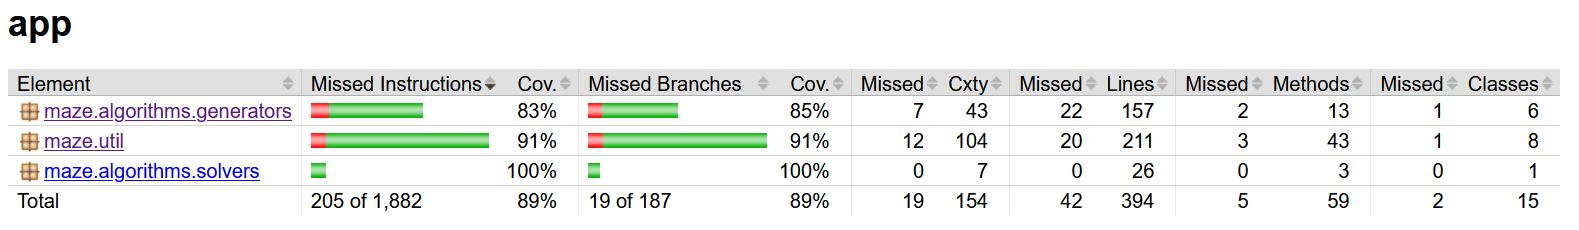
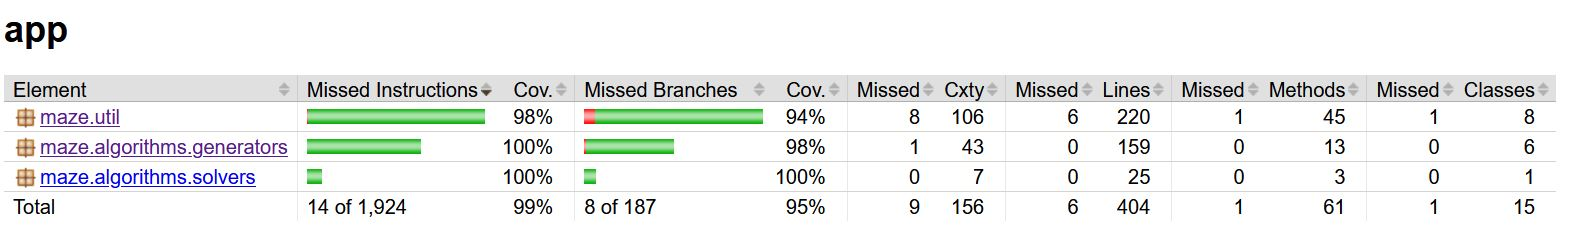
Fixed tests

diff --git a/maze-algorithms/app/src/test/java/maze/util/CellTest.java b/maze-algorithms/app/src/test/java/maze/util/CellTest.java
@@ -126,7 +126,7 @@ public class CellTest {
         Cell leftNeighbour = new Cell(11, 10);
         Cell rightNeighbour = new Cell(9, 10);
 
-        leftNeighbour.setVisited(true);
+        testGrid.markCellAsVisited(leftNeighbour);
 
         testGrid.add(currentCell);
         testGrid.add(topNeighbour);
@@ -146,8 +146,8 @@ public class CellTest {
         Cell rightNeighbour = new Cell(9, 10);
         Cell farRightNeihbour = new Cell(8, 10);
 
-        leftNeighbour.setVisited(true);
-        rightNeighbour.setVisited(true);
+        testGrid.markCellAsVisited(leftNeighbour);
+        testGrid.markCellAsVisited(rightNeighbour);
 
         testGrid.add(currentCell);
         testGrid.add(topNeighbour);
@@ -202,7 +202,7 @@ public class CellTest {
         leftNeighbour.setWalls(new boolean[] { true, true, true, false });
         rightNeighbour.setWalls(new boolean[] { true, true, true, true });
 
-        rightNeighbour.setVisited(true);
+        testGrid.markCellAsVisited(rightNeighbour);
 
         testGrid.add(currentCell);
         testGrid.add(topNeighbour);
@@ -212,6 +212,22 @@ public class CellTest {
         testGrid.add(farRightNeihbour);
 
         assertEquals(1, currentCell.getUnvisitedValidMoveNeighbours(testGrid).size());
+    }
+
+    @Test
+    public void shouldResetCell() {
+        Cell cell = new Cell(10, 10);
+        cell.setBfsShortestPath(true);
+        cell.setCursor(true);
+        cell.setVisited(true);
+        cell.setWalls(new boolean[] { false, false, false, false });
+
+        cell.reset();
+
+        assertFalse(cell.isBfsShortestPath());
+        assertFalse(cell.isCursor());
+        assertFalse(cell.isVisited());
+        assertTrue(cell.getWalls()[0] && cell.getWalls()[1] && cell.getWalls()[2] && cell.getWalls()[3]);
     }
 
 }

diff --git a/maze-algorithms/app/src/test/java/maze/algorithm/generators/KruskalsGeneratorTest.java b/maze-algorithms/app/src/test/java/maze/algorithm/generators/KruskalsGeneratorTest.java
@@ -5,9 +5,8 @@ import static org.junit.Assert.assertTrue;
 import static org.mockito.Mockito.doNothing;
 import static org.mockito.Mockito.spy;
 
-import java.awt.Graphics;
-
 import javax.swing.Timer;
+import java.awt.Graphics;
 
 import org.junit.Before;
 import org.junit.Rule;
@@ -16,13 +15,12 @@ import org.mockito.Mock;
 import org.mockito.junit.MockitoJUnit;
 import org.mockito.junit.MockitoRule;
 
-import maze.algorithms.generators.AldousBroderGenerator;
+import maze.algorithms.generators.KruskalsGenerator;
 import maze.algorithms.solvers.BfsSolver;
 import maze.gui.Maze;
 import maze.gui.MazeGridPanel;
 
-// Tämä luokka saattaa hidastaa testien ajamista huomattavasti, koska algoritmin suoritusaika on hyvin satunnainen
-public class AldousBroderGeneratorTest {
+public class KruskalsGeneratorTest {
 
     @Rule
     public MockitoRule rule = MockitoJUnit.rule();
@@ -32,12 +30,12 @@ public class AldousBroderGeneratorTest {
     private Timer timer;
 
     private MazeGridPanel mazeGridPanel;
-    private AldousBroderGenerator generator;
+    private KruskalsGenerator generator;
 
     @Before
     public void setUp() {
         mazeGridPanel = spy(new MazeGridPanel(32, 32));
-        generator = new AldousBroderGenerator(mazeGridPanel);
+        generator = new KruskalsGenerator(mazeGridPanel);
         doNothing().when(mazeGridPanel).repaint();
         doNothing().when(timer).start();
         mazeGridPanel.getGrid().resetVisitedCells();

diff --git a/maze-algorithms/app/src/test/java/maze/algorithm/generators/PrimsGeneratorTest.java b/maze-algorithms/app/src/test/java/maze/algorithm/generators/PrimsGeneratorTest.java
@@ -1,6 +1,5 @@
 package maze.algorithm.generators;
 
-import static org.junit.Assert.assertFalse;
 import static org.junit.Assert.assertTrue;
 import static org.mockito.Mockito.doNothing;
 import static org.mockito.Mockito.spy;
@@ -35,10 +34,11 @@ public class PrimsGeneratorTest {
 
     @Before
     public void setUp() {
-        mazeGridPanel = spy(new MazeGridPanel(32, 32));
+        mazeGridPanel = spy(new MazeGridPanel(6, 6));
         generator = new PrimsGenerator(mazeGridPanel);
         doNothing().when(mazeGridPanel).repaint();
         doNothing().when(timer).start();
+        mazeGridPanel.getGrid().resetVisitedCells();
         Maze.generated = false;
         Maze.solved = false;
     }
@@ -47,14 +47,6 @@ public class PrimsGeneratorTest {
         while (!Maze.generated) {
             generator.generate();
         }
-    }
-
-    @Test
-    public void shouldGenerateMazeAndHaveVisitedAllCells() {
-        assertFalse(mazeGridPanel.getGrid().isAllVisited());
-        generateMaze();
-        assertTrue(Maze.generated);
-        assertTrue(mazeGridPanel.getGrid().isAllVisited());
     }
 
     @Test

diff --git a/maze-algorithms/app/src/main/java/maze/algorithms/solvers/BfsSolver.java b/maze-algorithms/app/src/main/java/maze/algorithms/solvers/BfsSolver.java
@@ -17,7 +17,7 @@ public class BfsSolver {
         cellQueue = new CellQueue();
         this.startCell = grid.get(0);
         this.endPoint = grid.get(grid.size() - 1);
-        cellQueue.enqueue(startCell);
+        cellQueue.add(startCell);
     }
 
     /**
@@ -25,7 +25,7 @@ public class BfsSolver {
      * alusta loppuun
      */
     public void solve() {
-        Cell currentCell = cellQueue.pop();
+        Cell currentCell = cellQueue.remove();
         grid.markCellAsVisited(currentCell);
 
         if (currentCell == endPoint) {
@@ -35,9 +35,8 @@ public class BfsSolver {
         CellList neighbours = currentCell.getUnvisitedValidMoveNeighbours(grid);
         for (int i = 0; i < neighbours.size(); i++) {
             Cell neighbour = neighbours.get(i);
-            grid.markCellAsVisited(neighbour);
             neighbour.setParent(currentCell);
-            cellQueue.enqueue(neighbour);
+            cellQueue.add(neighbour);
         }
 
         if (cellQueue.isEmpty()) {

diff --git a/maze-algorithms/app/src/main/java/maze/util/Cell.java b/maze-algorithms/app/src/main/java/maze/util/Cell.java
@@ -4,10 +4,10 @@ public class Cell {
     private int x, y, id;
 
     private boolean visited = false;
-    private int TOP = 0;
-    private int RIGHT = 1;
-    private int BOTTOM = 2;
-    private int LEFT = 3;
+    private final int TOP = 0;
+    private final int RIGHT = 1;
+    private final int BOTTOM = 2;
+    private final int LEFT = 3;
     private boolean[] walls = { true, true, true, true };
     private boolean cursor = false;
     private boolean deadEnd = false;
@@ -199,7 +199,7 @@ public class Cell {
         }
     }
 
-    public void resetCell() {
+    public void reset() {
         walls = new boolean[] { true, true, true, true };
         cursor = false;
         visited = false;
@@ -331,7 +331,7 @@ public class Cell {
      * @param recursiveVisit
      */
     @ExcludeFromJacocoGeneratedReport
-    public void setRecursiveVisit(boolean deadEnd) {
+    public void setDeadEnd(boolean deadEnd) {
         this.deadEnd = deadEnd;
     }
 

diff --git a/maze-algorithms/app/src/test/java/maze/util/CellListTest.java b/maze-algorithms/app/src/test/java/maze/util/CellListTest.java
@@ -89,7 +89,7 @@ public class CellListTest {
     @Test
     public void shouldNotHaveVisitedAllCells() {
         for (int i = 0; i < 25; i++) {
-            cellList.get(i).setVisited(true);
+            cellList.markCellAsVisited(cellList.get(i));
         }
         assertFalse(cellList.isAllVisited());
     }
@@ -97,7 +97,7 @@ public class CellListTest {
     @Test
     public void shouldHaveVisitedAllCells() {
         for (int i = 0; i < cellList.size(); i++) {
-            cellList.get(i).setVisited(true);
+            cellList.markCellAsVisited(cellList.get(i));
         }
 
         assertTrue(cellList.isAllVisited());
@@ -106,7 +106,7 @@ public class CellListTest {
     @Test
     public void shouldSetAllCellsUnvisited() {
         for (int i = 0; i < cellList.size(); i++) {
-            cellList.get(i).setVisited(true);
+            cellList.markCellAsVisited(cellList.get(i));
         }
 
         assertTrue(cellList.isAllVisited());

diff --git a/maze-algorithms/app/src/test/java/maze/algorithm/solvers/BfsSolverTest.java b/maze-algorithms/app/src/test/java/maze/algorithm/solvers/BfsSolverTest.java
@@ -1,6 +1,7 @@
 package maze.algorithm.solvers;
 
 import static org.junit.Assert.assertFalse;
+import static org.junit.Assert.assertTrue;
 import static org.mockito.Mockito.doNothing;
 import static org.mockito.Mockito.spy;
 
@@ -60,5 +61,22 @@ public class BfsSolverTest {
 
         assertFalse(mazeGridPanel.getGrid().isAllVisited());
 
+    }
+
+    @Test
+    public void shouldHaveVisitedAllCellsOnValidMaze() {
+        BinaryTreeGenerator binaryTreeGenerator = new BinaryTreeGenerator(mazeGridPanel);
+        while (!Maze.generated) {
+            binaryTreeGenerator.generate();
+        }
+        mazeGridPanel.getGrid().setAllUnvisited();
+
+        BfsSolver solver = new BfsSolver(mazeGridPanel);
+
+        while (!Maze.solved) {
+            solver.solve();
+        }
+
+        assertTrue(mazeGridPanel.getGrid().isAllVisited());
     }
 }

diff --git a/maze-algorithms/app/src/main/java/maze/util/CellList.java b/maze-algorithms/app/src/main/java/maze/util/CellList.java
@@ -73,7 +73,7 @@ public class CellList {
     public void setAllUnvisited() {
         for (int i = 0; i < size; i++) {
             cells[i].setVisited(false);
-            cells[i].setRecursiveVisit(false);
+            cells[i].setDeadEnd(false);
         }
         resetVisitedCells();
     }
@@ -90,12 +90,14 @@ public class CellList {
         // }
         // }
         // return true;
-        return visitedCells == size - 1 ? true : false;
+        return visitedCells == size ? true : false;
     }
 
     public void markCellAsVisited(Cell cell) {
-        cell.setVisited(true);
-        visitedCells++;
+        if (!cell.isVisited()) {
+            cell.setVisited(true);
+            visitedCells++;
+        }
     }
 
     /**

diff --git a/maze-algorithms/app/src/test/java/maze/util/CellQueueTest.java b/maze-algorithms/app/src/test/java/maze/util/CellQueueTest.java
@@ -13,7 +13,7 @@ public class CellQueueTest {
     public void setup() {
         cellQueue = new CellQueue();
         for (int i = 0; i < 50; i++) {
-            cellQueue.enqueue(new Cell(i, i));
+            cellQueue.add(new Cell(i, i));
         }
     }
 
@@ -24,10 +24,10 @@ public class CellQueueTest {
 
     @Test
     public void shouldPopCorrectCellFromQueue() {
-        cellQueue.pop();
-        cellQueue.pop();
-        cellQueue.pop();
-        Cell cell = cellQueue.pop();
+        cellQueue.remove();
+        cellQueue.remove();
+        cellQueue.remove();
+        Cell cell = cellQueue.remove();
         assertEquals(3, cell.getX());
         assertEquals(3, cell.getY());
         assertEquals(46, cellQueue.size());

diff --git a/maze-algorithms/app/src/main/java/maze/algorithms/generators/RecursiveBacktrackerGenerator.java b/maze-algorithms/app/src/main/java/maze/algorithms/generators/RecursiveBacktrackerGenerator.java
@@ -54,11 +54,11 @@ public class RecursiveBacktrackerGenerator implements GeneratorAlgorithm {
             currentCell = nextDirection;
         } else if (cellStack.isNotEmpty()) {
             // 3
-            currentCell.setRecursiveVisit(true);
+            currentCell.setDeadEnd(true);
             currentCell = cellStack.pop();
         } else {
             // 4
-            currentCell.setRecursiveVisit(true);
+            currentCell.setDeadEnd(true);
             Maze.generated = true;
         }
     }

diff --git a/maze-algorithms/app/src/main/java/maze/util/CellQueue.java b/maze-algorithms/app/src/main/java/maze/util/CellQueue.java
@@ -21,7 +21,7 @@ public class CellQueue {
      * 
      * @param cell
      */
-    public void enqueue(Cell cell) {
+    public void add(Cell cell) {
         if (isFull()) {
             ensureCapacity();
         }
@@ -38,7 +38,7 @@ public class CellQueue {
      * @throws QueueEmptyException
      * @return Cell
      */
-    public Cell pop() {
+    public Cell remove() {
         if (isEmpty()) {
             throw new QueueEmptyException("Cannot remove from empty queue");
         }

diff --git a/maze-algorithms/app/src/test/java/maze/algorithm/generators/RecursiveBacktrackerGeneratorTest.java b/maze-algorithms/app/src/test/java/maze/algorithm/generators/RecursiveBacktrackerGeneratorTest.java
@@ -39,6 +39,7 @@ public class RecursiveBacktrackerGeneratorTest {
         generator = new RecursiveBacktrackerGenerator(mazeGridPanel);
         doNothing().when(mazeGridPanel).repaint();
         doNothing().when(timer).start();
+        mazeGridPanel.getGrid().resetVisitedCells();
         Maze.generated = false;
         Maze.solved = false;
     }
